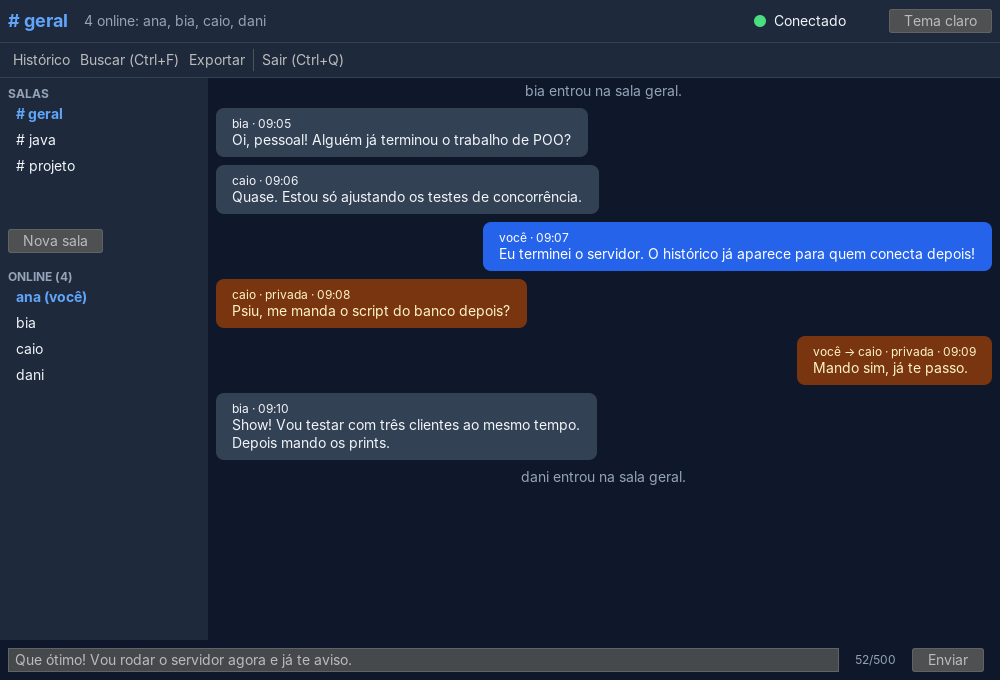
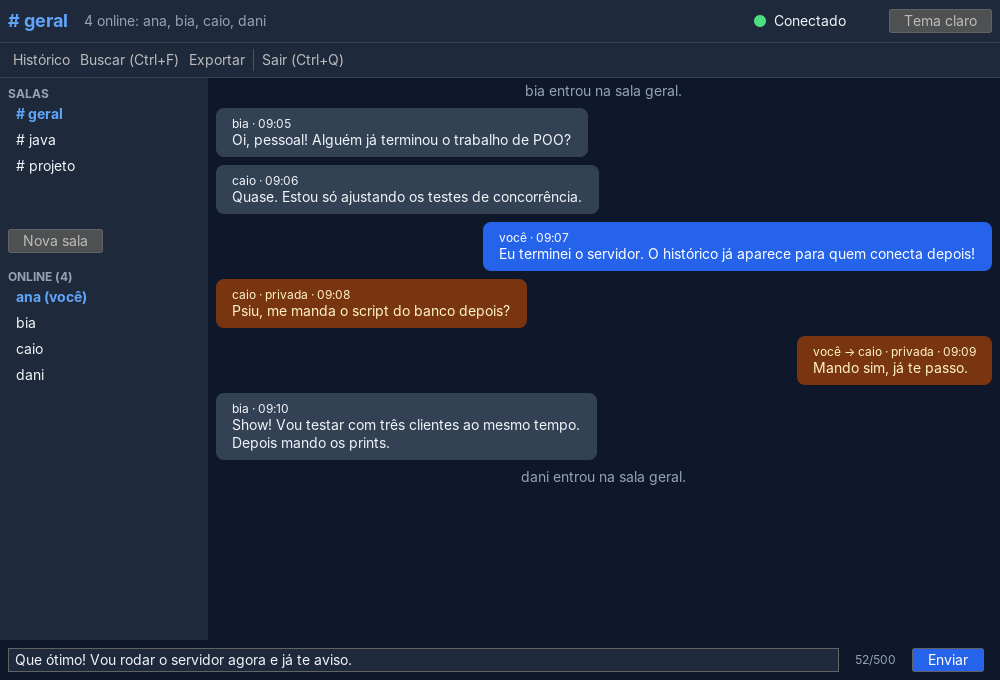
campo e botão Enviar usam as cores do tema (ficavam cinza no tema escuro)
Claude-Session: https://claude.ai/code/session_01Ex4ZJECPSeTpoqggpUZ4Ae

Changed region(s): [[0.0, 0.9574, 0.837, 0.9882], [0.899, 0.9574, 0.992, 0.9882]]

diff --git a/src/test/java/br/unicesumar/chat/client/ui/PainelEntradaTest.java b/src/test/java/br/unicesumar/chat/client/ui/PainelEntradaTest.java
@@ -146,4 +146,45 @@ class PainelEntradaTest {
         assertThrows(NullPointerException.class, () -> new PainelEntrada(tema, null));
         assertThrows(NullPointerException.class, () -> new PainelEntrada(null, s -> { }));
     }
+
+    // ---------- cores (o campo e o botão não podem ficar no cinza padrão do FlatLaf) ----------
+
+    @Test
+    void campoUsaAsCoresDoTemaNosDoisModos() {
+        for (Modo modo : Modo.values()) {
+            Tema t = new Tema(modo);
+            PainelEntrada p = new PainelEntrada(t, texto -> { });
+            Tema.Paleta cores = t.paleta();
+            assertEquals(cores.superficie(), p.campo().getBackground(), "fundo do campo em " + modo);
+            assertEquals(cores.texto(), p.campo().getForeground(), "texto do campo em " + modo);
+            assertEquals(cores.texto(), p.campo().getCaretColor(), "cursor do campo em " + modo);
+        }
+    }
+
+    @Test
+    void botaoEnviarHabilitadoUsaACorDeDestaqueEDesabilitadoNao() {
+        for (Modo modo : Modo.values()) {
+            Tema t = new Tema(modo);
+            PainelEntrada p = new PainelEntrada(t, texto -> { });
+            Tema.Paleta cores = t.paleta();
+            p.campo().setText("oi");
+            assertEquals(cores.destaque(), p.botaoEnviar().getBackground(), "fundo habilitado em " + modo);
+            assertEquals(cores.textoSobreDestaque(), p.botaoEnviar().getForeground(), "texto habilitado em " + modo);
+            p.campo().setText("");
+            assertFalse(p.botaoEnviar().isEnabled());
+            assertNotEquals(cores.destaque(), p.botaoEnviar().getBackground(),
+                    "desabilitado precisa parecer desabilitado em " + modo);
+        }
+    }
+
+    @Test
+    void trocarDeTemaReaplicaAsCoresDoCampoEDoBotao() {
+        Tema t = new Tema(Modo.CLARO);
+        PainelEntrada p = new PainelEntrada(t, texto -> { });
+        p.campo().setText("oi");
+        t.alternar();
+        Tema.Paleta escura = t.paleta();
+        assertEquals(escura.superficie(), p.campo().getBackground());
+        assertEquals(escura.destaque(), p.botaoEnviar().getBackground());
+    }
 }

diff --git a/src/main/java/br/unicesumar/chat/client/ui/PainelEntrada.java b/src/main/java/br/unicesumar/chat/client/ui/PainelEntrada.java
@@ -99,6 +99,9 @@ public class PainelEntrada extends JPanel {
     private void aplicarTema() {
         Tema.Paleta p = tema.paleta();
         setBackground(p.fundo());
+        campo.setBackground(p.superficie());
+        campo.setForeground(p.texto());
+        campo.setCaretColor(p.texto());
         campo.setFont(tema.fonteCorpo());
         contador.setFont(tema.fontePequena());
         botaoEnviar.setFont(tema.fonteCorpo());
@@ -110,7 +113,10 @@ public class PainelEntrada extends JPanel {
         contador.setText(tamanho + "/" + LIMITE);
         Tema.Paleta p = tema.paleta();
         contador.setForeground(tamanho >= LIMITE_DE_ALERTA ? p.erro() : p.textoSecundario());
-        botaoEnviar.setEnabled(habilitado && !campo.getText().isBlank());
+        boolean podeEnviar = habilitado && !campo.getText().isBlank();
+        botaoEnviar.setEnabled(podeEnviar);
+        botaoEnviar.setBackground(podeEnviar ? p.destaque() : p.superficie());
+        botaoEnviar.setForeground(podeEnviar ? p.textoSobreDestaque() : p.textoSecundario());
     }
 
     /** Envia o texto do campo (se não estiver vazio) e limpa o campo. */
